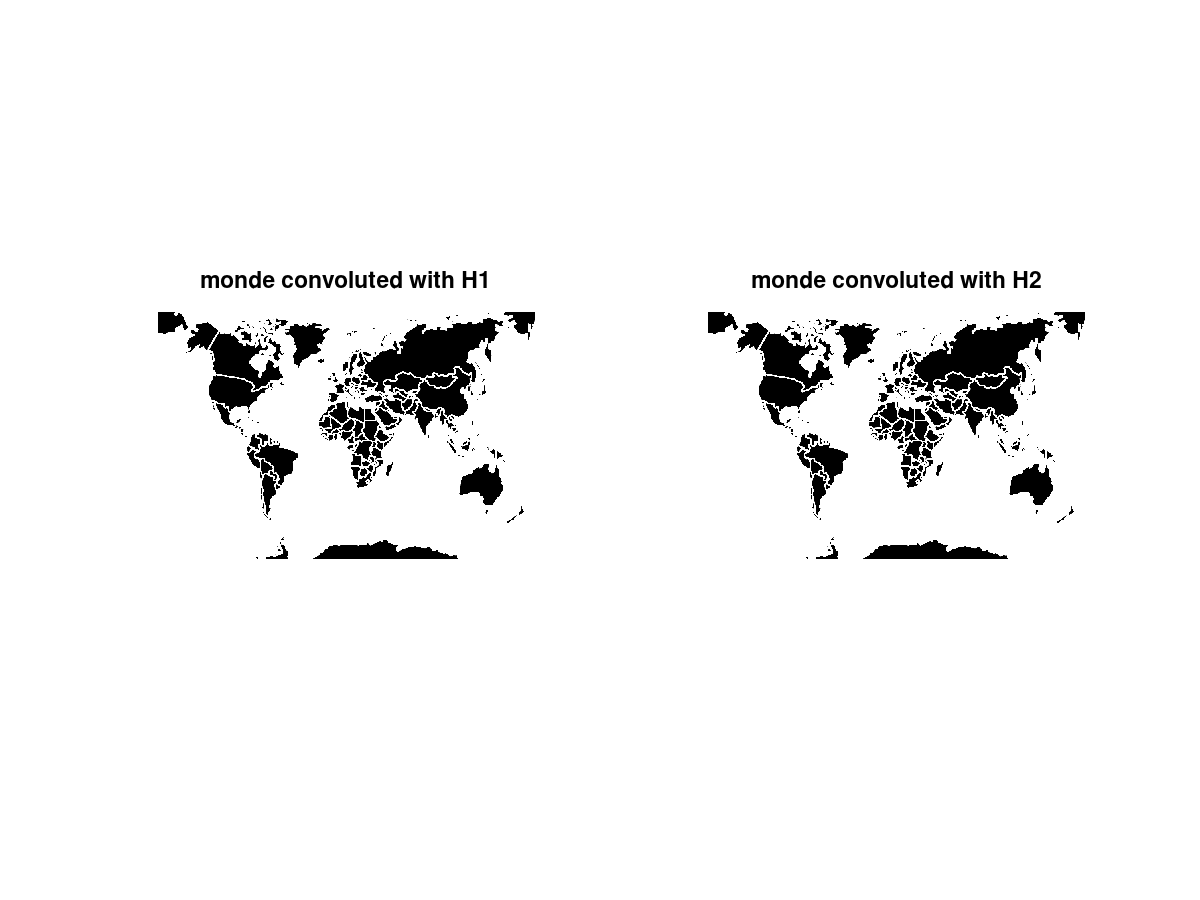
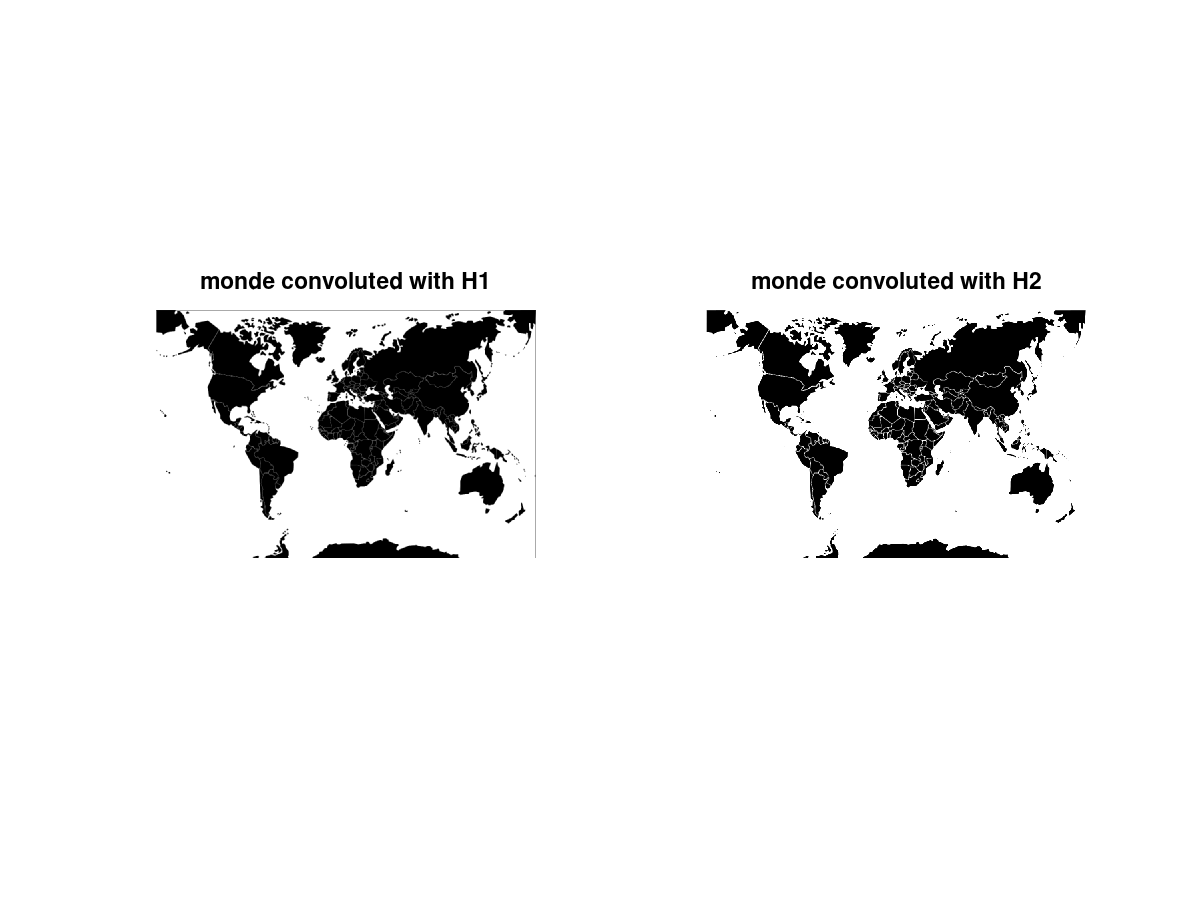
:sparkles: Finish question 1 of part 1 of TP3

diff --git a/TP3/tp3.m b/TP3/tp3.m
@@ -14,17 +14,25 @@ H5 = [0, 1, 0; 1, -4, 1; 0, 1, 0];
 [monde, map_monde, alpha_monde] = imread("data/monde.png");
 [lena, map_lena, alpha_lena] = imread("../TP2/data/Lena_nb.jpg");
 
-dominos_conv_h3 = conv2(dominos, H3);
-monde_conv_h3 = conv2(monde, H3);
-lena_conv_h3 = conv2(lena, H3);
+# See https://fr.mathworks.com/help/matlab/ref/conv2.html
 
-dominos_conv_h4 = conv2(dominos, H4);
-monde_conv_h4 = conv2(monde, H4);
-lena_conv_h4 = conv2(lena, H4);
+function img_conv = conv(img, mask)
+	img_conv = uint8(conv2(img, mask, "same"));
+endfunction
 
-dominos_conv_h5 = conv2(dominos, H5);
-monde_conv_h5 = conv2(monde, H5);
-lena_conv_h5 = conv2(lena, H5);
+function [dominos_conv, monde_conv, lena_conv] = convImages(mask)
+	global dominos;
+	global monde;
+	global lena;
+	dominos_conv = conv(dominos, mask);
+	monde_conv = conv(monde, mask);
+	lena_conv = conv(lena, mask);
+endfunction
+
+% Plot all convolutions of images with convolution masks
+[dominos_conv_h3, monde_conv_h3, lena_conv_h3] = convImages(H3);
+[dominos_conv_h4, monde_conv_h4, lena_conv_h4] = convImages(H4);
+[dominos_conv_h5, monde_conv_h5, lena_conv_h5] = convImages(H5);
 
 figure;
 subplot(3, 3, 1);
@@ -56,32 +64,32 @@ title("monde convoluted with H5");
 f = subplot(3, 3, 9);
 imshow(lena_conv_h5);
 title("lena convoluted with H5");
-saveas(f, "output/conv2_all_h3_h4_h5.png");
+saveas(f, "output/all_conv2_h3_h4_h5.png");
 
+% Plot convolution of "monde" (normal and transposed) with H3 and H4
 figure;
-subplot(1, 3, 1);
+subplot(2, 2, 1);
 imshow(monde_conv_h3);
 title("monde convoluted with H3");
-subplot(1, 3, 2);
+subplot(2, 2, 2);
 imshow(monde_conv_h4);
 title("monde convoluted with H4");
-f = subplot(1, 3, 3);
-imshow(monde_conv_h5);
-title("monde convoluted with H5");
-saveas(f, "output/monde_conv2_h3_h4_h5.png");
+subplot(2, 2, 3);
+imshow(conv2(monde', H3, "same"));
+title("monde transposed convoluted with H3");
+f = subplot(2, 2, 4);
+imshow(conv2(monde', H4, "same"));
+title("monde transposed convoluted with H4");
+saveas(f, "output/monde_transposed_conv2_h3_h4.png");
 
 # 2 - Filtres passe haut
 
 H1 = (1/9) * ones([3, 3]);
 H2 = (1/6) * [1, 2, 1; 2, 4, 2; 1, 2, 1];
 
-dominos_conv_h1 = conv2(dominos, H1);
-monde_conv_h1 = conv2(monde, H1);
-lena_conv_h1 = conv2(lena, H1);
-
-dominos_conv_h2 = conv2(dominos, H2);
-monde_conv_h2 = conv2(monde, H2);
-lena_conv_h2 = conv2(lena, H2);
+% Plot all convolution of images with H1 and H2
+[dominos_conv_h1, monde_conv_h1, lena_conv_h1] = convImages(H1);
+[dominos_conv_h2, monde_conv_h2, lena_conv_h2] = convImages(H2);
 
 figure;
 subplot(2, 3, 1);
@@ -102,7 +110,9 @@ title("monde convoluted with H2");
 f = subplot(2, 3, 6);
 imshow(lena_conv_h2);
 title("lena convoluted with H2");
+saveas(f, "output/all_conv2_h1_h2.png");
 
+% Plot convolution of "monde" with H1 and H2
 figure;
 subplot(1, 2, 1);
 imshow(monde_conv_h1);
@@ -115,4 +125,4 @@ saveas(f, "output/monde_conv2_h1_h2.png");
 
 
 % Comment the following line to keep the images displayed during execution.
-%close all hidden;
+close all hidden;

diff --git a/TP3/TP3.md b/TP3/TP3.md
@@ -9,4 +9,25 @@
 
 ### 1 - Filtres passe haut
 
+Pour réaliser une convolution 2D sur les images, nous utilisons la fonction Matlab `conv2`.
+
+```matlab
+% Convolution 2D de l'image domino avec le masque de convolution H3 :
+dominos_conv_h3 = conv2(dominos, H3);
+```
+
+Les bords ne sont pas très bien traité avec cette fonction : en effet, `domino` et `lena` ont des bords noirs, ce qui signifie que la convolution a commencé sur les bordure, sans *offset*. Pour résoudre ce problème, nous utilisons le paramètre `shape='same'` :
+
+```matlab
+dominos_conv_h3 = conv2(dominos, H3, 'same');
+```
+
+![Convolution 2D des images avec les masques H3, H4 et H5](output/all_conv2_h3_h4_h5.png)
+
+![Convolution 2D de monde et sa transposé avec les masques H3, H4](output/monde_transposed_conv2_h1_h2.png)
+
 ### 2 - Filtres passe bas
+
+![Convolution 2D des images avec les masques H1 et H2](output/all_conv2_h1_h2.png)
+
+![Convolution 2D de monde avec les masques H1 et H2](output/monde_conv2_h1_h2.png)
